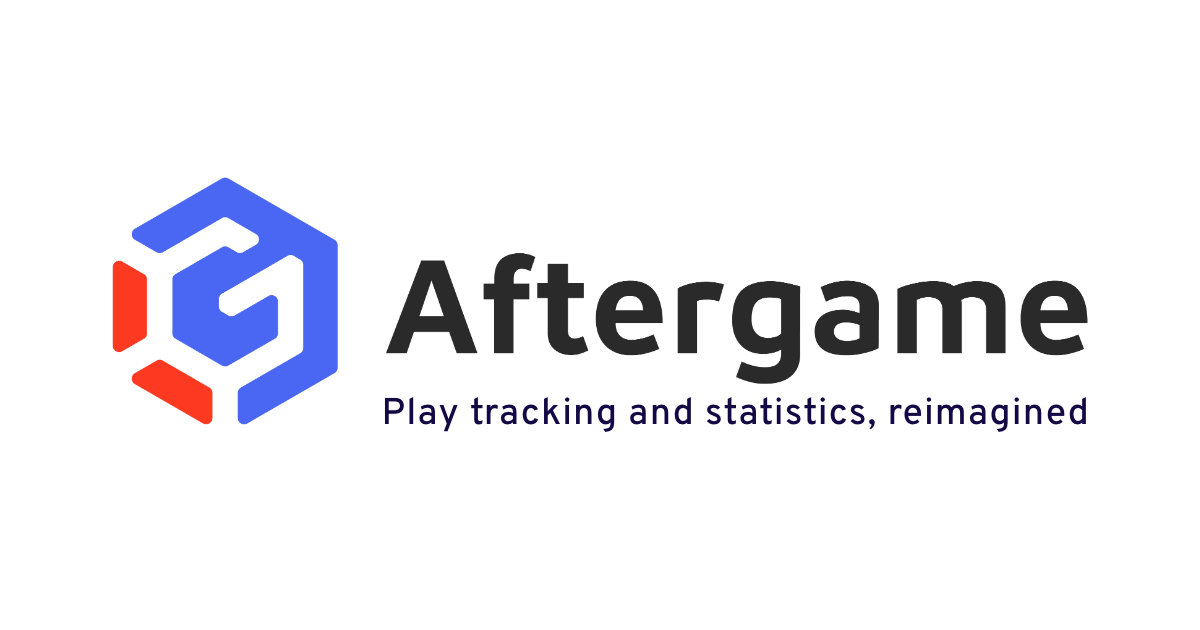
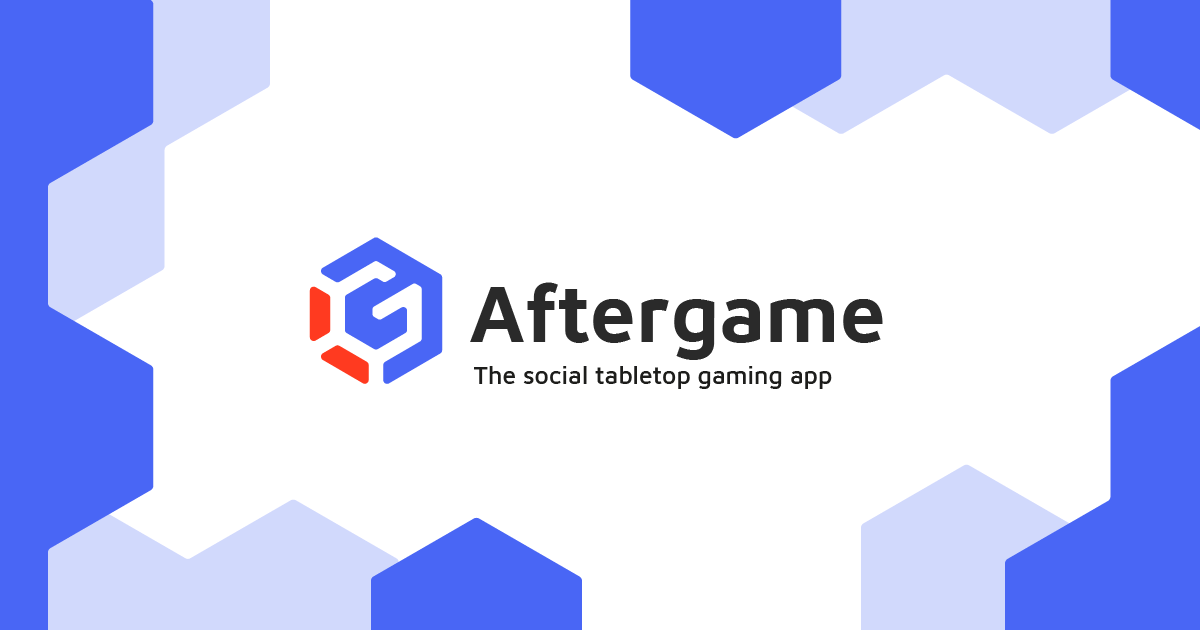
feat: small updates

diff --git a/src/app/releases/page.jsx b/src/app/releases/page.jsx
@@ -12,6 +12,49 @@ export const metadata = {
 
 const changelogs = [
   {
+    version: "1.3.0",
+    versionNumber: 42,
+    date: "September 19, 2024",
+    blurb:
+      "Post game lists and play log results in discussions, the event schedule is rebuilt, sign up with Discord and much more!",
+    features: [
+      `Share more! Posts can now have game lists or play log results embedded in them.`,
+      `You can now post discussions in events.`,
+      `The event schedule has been rebuilt from the ground up to make for easier browsing at larger events.`,
+      `You can now sign up to Aftergame with Discord.`,
+      `Event hosts have the ability to block attendee created games and posts.`,
+      `Events can now have multiple game lists attached to them.`,
+    ],
+    fixes: [
+      `Fixed a bug where you could not change the acquired date for a game copy.`,
+      `Fixed the date picker in dark mode.`,
+      `Play log results should now load instantly.`,
+      `Various other fixes and performance improvements.`,
+    ],
+  },
+  {
+    version: "1.2.1",
+    versionNumber: 41,
+    date: "September 4, 2024",
+    blurb:
+      "Time zones, content ratings, better event permissions, and many more quality of life improvements for events in today's release.",
+    features: [
+      `We now support time zones for events. Set the time zone when creating an event, and all times will be shown in the correct time at the event.`,
+      `You can now add a content rating to planned games to let potential players know the age suitability.`,
+      `Game Masters and teachers can now edit the details for events they are assigned to, even if they are not the host.`,
+      `Host and group admins can now edit any game on the schedule, even those created by attendees.`,
+      `You can now view the event location in your device's map app as well as copy the address.`,
+      `We now show the RPG game system being used in a planned game for an RPG.`,
+    ],
+    fixes: [
+      `Fixed a bug with repeating events not taking into account daylight savings.`,
+      `Fixed a bug which sometimes showed a public group as private.`,
+      `Expansions are now excluded from your games list by default.`,
+      `Fixed a bug which meant you couldn't remove the price paid from a game copy.`,
+      `Various other fixes and performance improvements.`,
+    ],
+  },
+  {
     version: "1.2.0",
     versionNumber: 40,
     date: "August 28, 2024",

diff --git a/src/app/layout.jsx b/src/app/layout.jsx
@@ -7,7 +7,7 @@ import { Header } from '@/sections/Header';
 
 export const metadata = {
   title: {
-    default: 'Aftergame | Play tracking and statistics, reimagined',
+    default: 'Aftergame | The social tabletop gaming app',
     template: '%s | Aftergame',
   },
   applicationName: 'Aftergame',
@@ -18,14 +18,14 @@ export const metadata = {
     canonical: '/'
   },
   openGraph: {
-    title: 'Aftergame | Play tracking and statistics, reimagined',
+    title: 'Aftergame | The social tabletop gaming app',
     description: 'Record the tabletop games you love on Aftergame to gain meaningful insights and share your gaming journey with friends.',
     url: 'https://www.aftergame.co',
     siteName: 'Aftergame',
     images: [
       {
         url: 'https://www.aftergame.co/_next/image?url=/images/ag-thumbnail.png&w=1200&q=75',
-        alt: 'Aftergame | Play tracking and statistics, reimagined',
+        alt: 'Aftergame | The social tabletop gaming app',
         width: 1200,
         height: 630,
       },

diff --git a/src/sections/CommunitiesPrimary.jsx b/src/sections/CommunitiesPrimary.jsx
@@ -18,7 +18,7 @@ export function CommunitiesPrimary() {
   return (
     <section
       id="features"
-      aria-label="Play tracking and statistics, reimagined"
+      aria-label="The social tabletop gaming app"
       className="bg-gg-blue py-20 sm:py-32"
       ref={containerRef}
     >

diff --git a/src/sections/EventsPrimary.jsx b/src/sections/EventsPrimary.jsx
@@ -18,7 +18,7 @@ export function EventsPrimary() {
   return (
     <section
       id="features"
-      aria-label="Play tracking and statistics, reimagined"
+      aria-label="The social tabletop gaming app"
       className="bg-gg-blue py-20 sm:py-32"
       ref={containerRef}
     >
